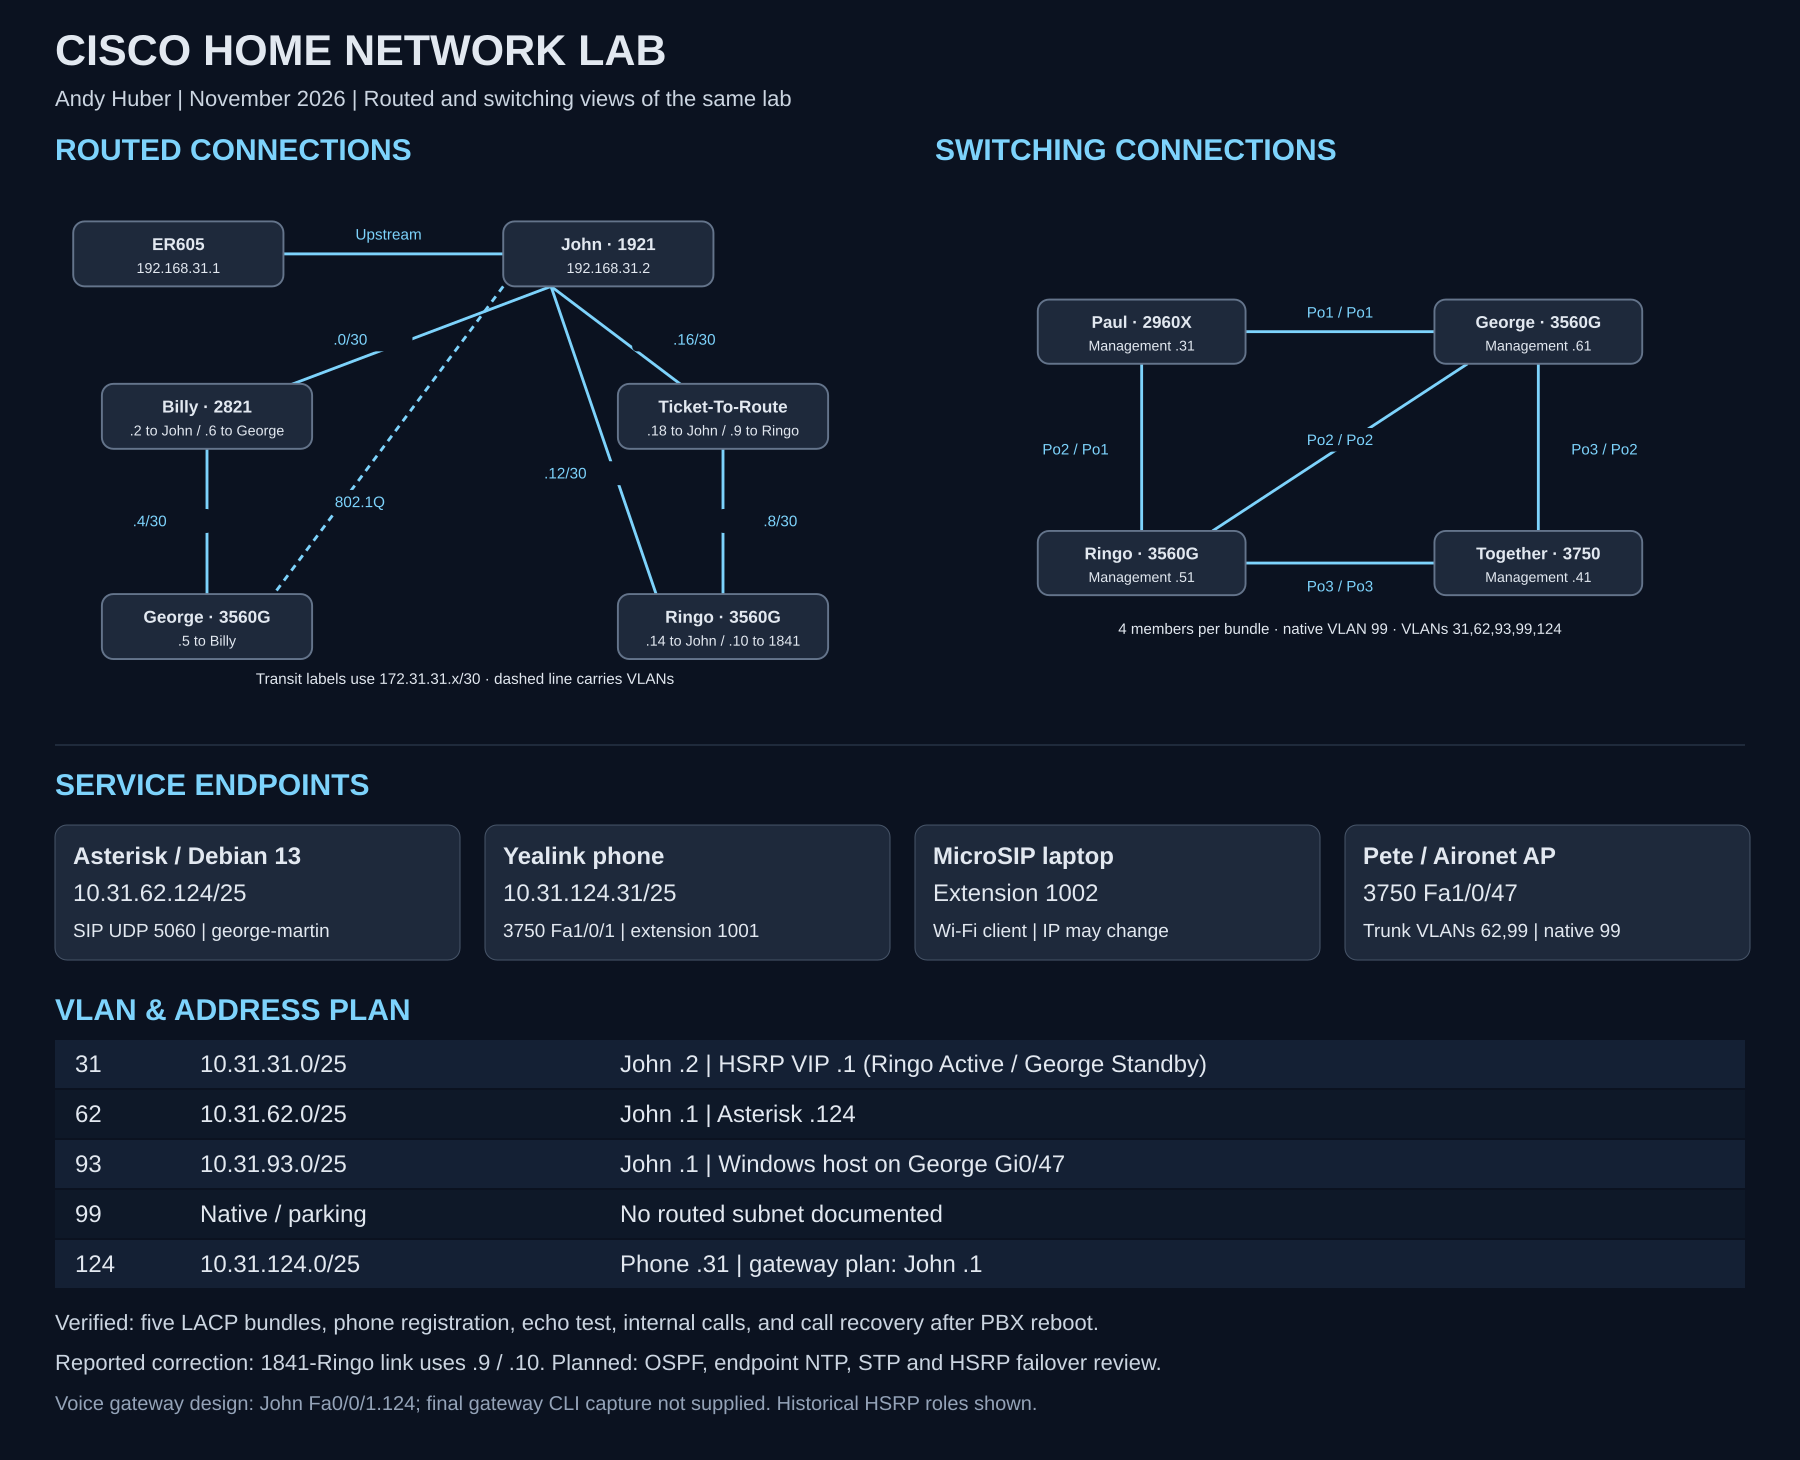
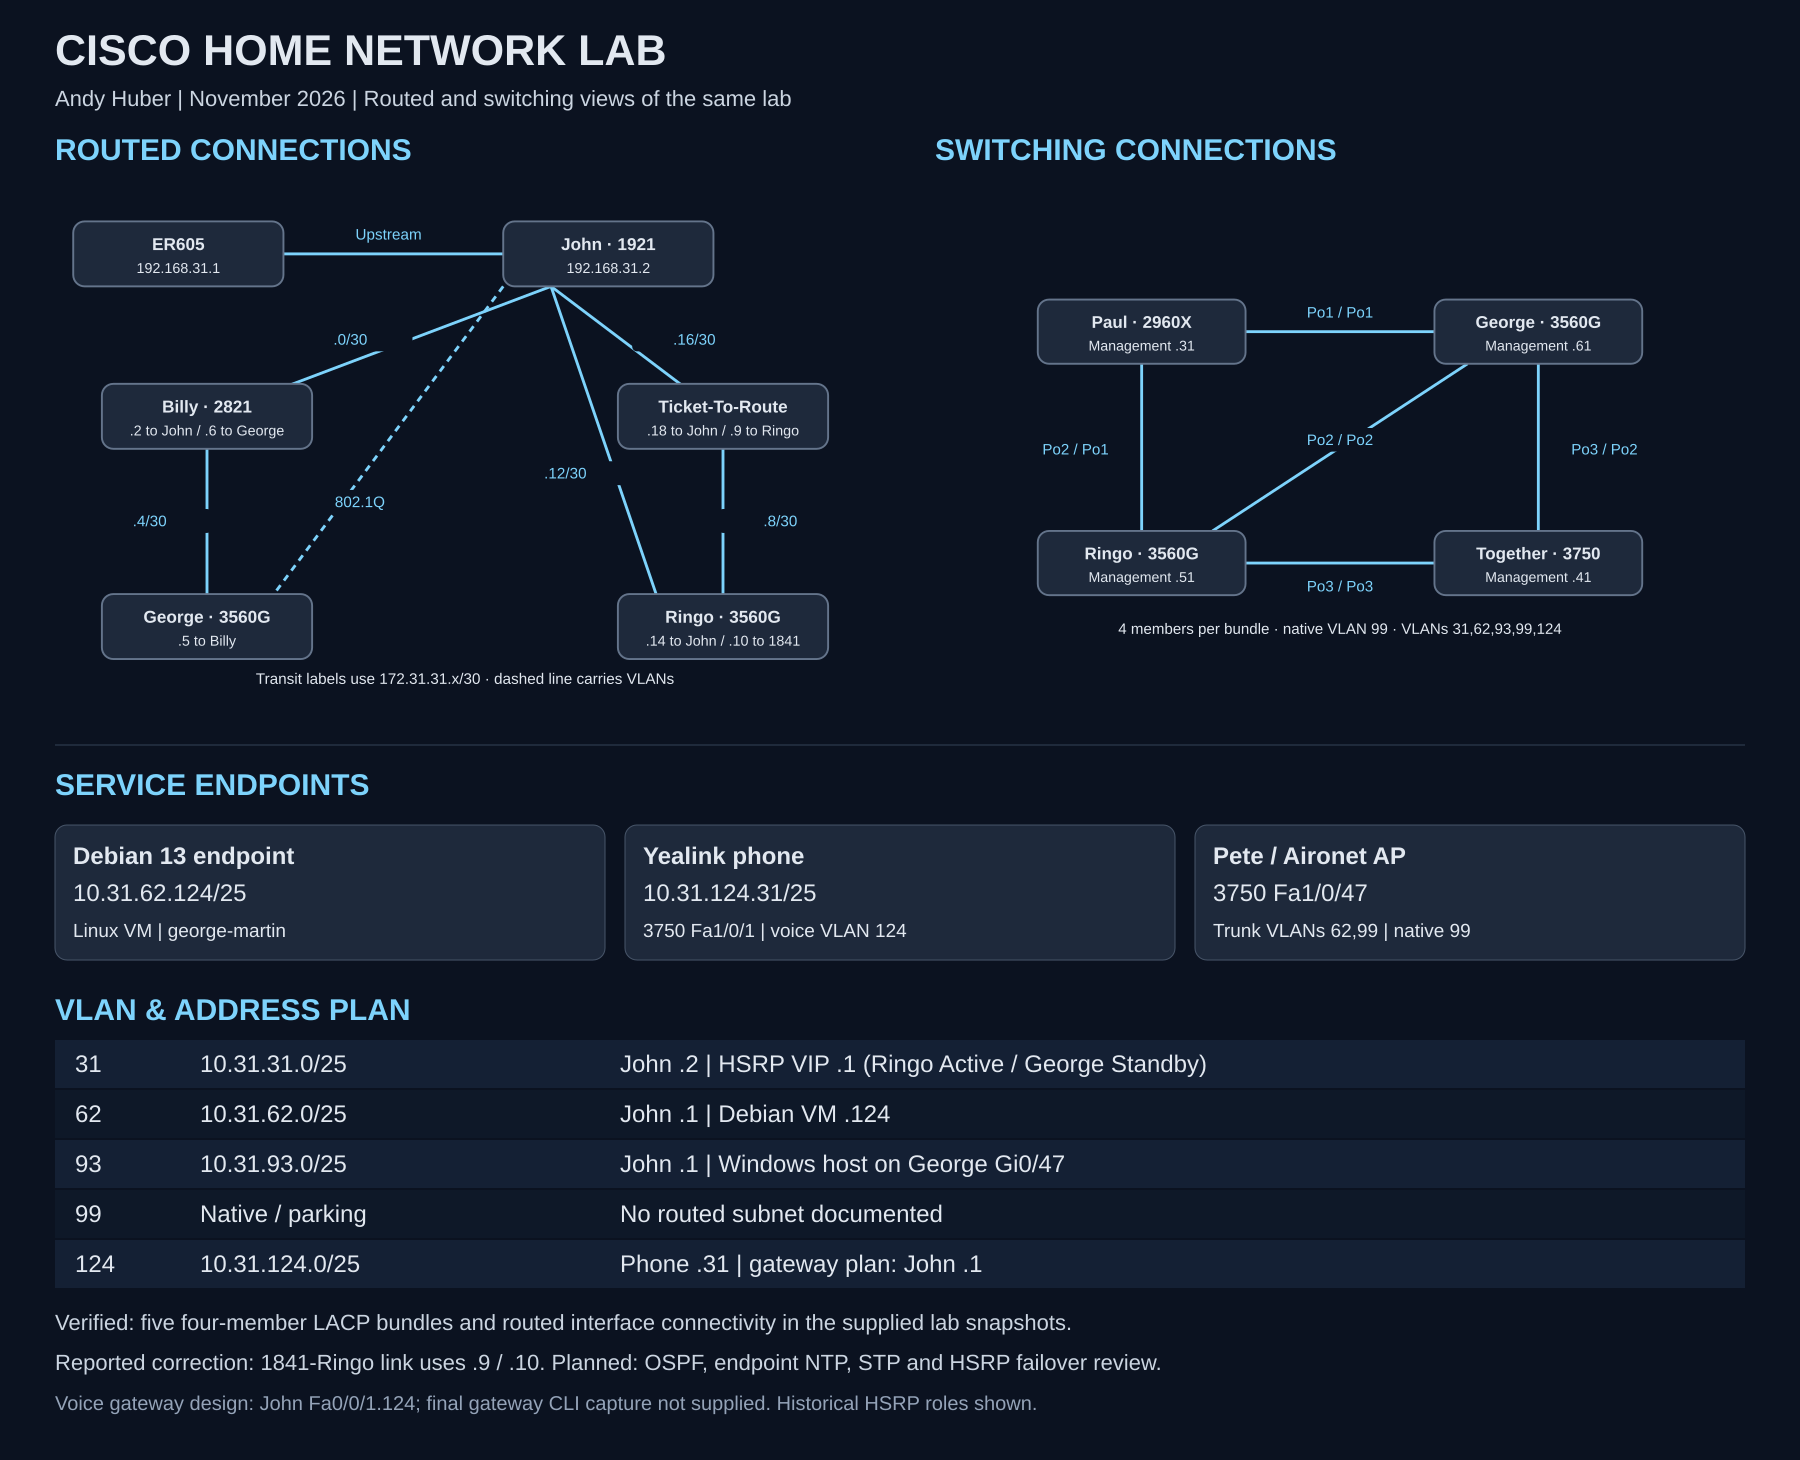
Add files via upload

diff --git a/home-lab.html b/home-lab.html
@@ -7,10 +7,10 @@
     gtag('js', new Date());
     gtag('config', 'G-H0VT97FYN4');
   </script></head>
-<body><a class="skip-link" href="#main">Skip to content</a><div class="page"><header><p class="location">ANDY HUBER · CCNA · HOME LAB</p><h1>My Cisco home lab</h1><p class="subtitle">Hands-on work, troubleshooting, and verified results.</p><nav aria-label="Main navigation"><a href="index.html#about">About me</a><a href="index.html#resume">Résumé</a><a href="index.html#projects">Projects</a><a href="home-lab.html">Home Lab</a><a href="asterisk-lab.html">Voice Lab</a><a href="lab-journal.html">Lab Journal</a><a href="index.html#contact">Contact</a></nav></header><main id="main"><section><h2>A larger routing and switching lab</h2><p>I expanded the lab to three routers and four switches, added an IP phone, and used a Debian VM as a working network service endpoint. The hardware gives me several paths to compare and enough room to break down problems by layer.</p><p class="note">Snapshot: November 16, 2026, with later corrections reported during the session. Interface states and forwarding choices can change as I work through new exercises.</p><div class="table-wrap" role="region" aria-label="Device table" tabindex="0"><table><thead><tr><th scope="col">Device</th><th scope="col">Platform</th><th scope="col">Current role</th></tr></thead><tbody><tr><td>John</td><td>Cisco 1921</td><td>Upstream router and VLAN routing</td></tr><tr><td>Billy</td><td>Cisco 2821</td><td>Routed links to John and George</td></tr><tr><td>Ticket-To-Route</td><td>Cisco 1841</td><td>Routed links to John and Ringo</td></tr><tr><td>Paul</td><td>Cisco 2960X</td><td>Access switch; VLAN 31 STP root</td></tr><tr><td>George and Ringo</td><td>Cisco 3560G switches</td><td>LACP trunks, routed ports, VLAN 31 HSRP</td></tr><tr><td>Switch Together</td><td>Cisco 3750</td><td>Phone and AP access; STP root for 62/93/99/124</td></tr></tbody></table></div></section>
+<body><a class="skip-link" href="#main">Skip to content</a><div class="page"><header><p class="location">ANDY HUBER · CCNA · HOME LAB</p><h1>My Cisco home lab</h1><p class="subtitle">Hands-on work, troubleshooting, and verified results.</p><nav aria-label="Main navigation"><a href="index.html#about">About me</a><a href="index.html#resume">Résumé</a><a href="index.html#projects">Projects</a><a href="home-lab.html">Home Lab</a><a href="lab-journal.html">Lab Journal</a><a href="index.html#contact">Contact</a></nav></header><main id="main"><section><h2>A larger routing and switching lab</h2><p>I expanded the lab to three routers and four switches, added an IP phone, and continued practicing with a Debian VM endpoint. The hardware gives me several paths to compare and enough room to break down problems by layer.</p><p class="note">Snapshot: November 16, 2026, with later corrections reported during the session. Interface states and forwarding choices can change as I work through new exercises.</p><div class="table-wrap" role="region" aria-label="Device table" tabindex="0"><table><thead><tr><th scope="col">Device</th><th scope="col">Platform</th><th scope="col">Current role</th></tr></thead><tbody><tr><td>John</td><td>Cisco 1921</td><td>Upstream router and VLAN routing</td></tr><tr><td>Billy</td><td>Cisco 2821</td><td>Routed links to John and George</td></tr><tr><td>Ticket-To-Route</td><td>Cisco 1841</td><td>Routed links to John and Ringo</td></tr><tr><td>Paul</td><td>Cisco 2960X</td><td>Access switch; VLAN 31 STP root</td></tr><tr><td>George and Ringo</td><td>Cisco 3560G switches</td><td>LACP trunks, routed ports, VLAN 31 HSRP</td></tr><tr><td>Switch Together</td><td>Cisco 3750</td><td>Phone and AP access; STP root for 62/93/99/124</td></tr></tbody></table></div></section>
 <section><h2>Switching connections</h2><a class="diagram-link" href="switching-topology.svg" target="_blank" rel="noopener"><img class="topology" src="switching-topology.svg" alt="Four-switch topology: Paul connects to George and Ringo; George and Ringo connect to each other and the 3750. Each connection is a four-member LACP bundle." width="900" height="450"></a><div class="table-wrap" role="region" aria-label="Link table" tabindex="0"><table><thead><tr><th scope="col">Link</th><th scope="col">Port channels</th><th scope="col">Physical members</th></tr></thead><tbody><tr><td>Paul ↔ George</td><td>Paul Po1 ↔ George Po1</td><td>Gi1/0/13–16 ↔ Gi0/13–16</td></tr><tr><td>Paul ↔ Ringo</td><td>Paul Po2 ↔ Ringo Po1</td><td>Gi1/0/17–20 ↔ Gi0/17–20</td></tr><tr><td>George ↔ Ringo</td><td>Po2 on each switch</td><td>Gi0/25–28 on each end</td></tr><tr><td>George ↔ 3750</td><td>George Po3 ↔ 3750 Po2</td><td>Gi0/33–36 ↔ Fa1/0/33–36</td></tr><tr><td>Ringo ↔ 3750</td><td>Po3 on each switch</td><td>Gi0/37–40 ↔ Fa1/0/37–40</td></tr></tbody></table></div><p>All five bundles showed <code>SU</code> with four <code>P</code> members. They carry VLANs 31, 62, 93, 99, and 124 with native VLAN 99. A healthy bundle can still be blocked by STP for particular VLANs.</p></section>
 <section><h2>Routed connections</h2><a class="diagram-link" href="routed-topology.svg" target="_blank" rel="noopener"><img class="topology" src="routed-topology.svg" alt="John connects upstream to ER605 and by routed links to Billy, Ringo, and the 1841. Billy connects to George, and the 1841 connects to Ringo. John also trunks VLANs to George." width="900" height="530"></a><div class="table-wrap" role="region" aria-label="Network table" tabindex="0"><table><thead><tr><th scope="col">Network</th><th scope="col">Endpoint A</th><th scope="col">Endpoint B</th></tr></thead><tbody><tr><td>172.31.31.0/30</td><td>John Gi0/0: .1</td><td>Billy Gi0/1: .2</td></tr><tr><td>172.31.31.4/30</td><td>George Gi0/2: .5</td><td>Billy Gi0/0: .6</td></tr><tr><td>172.31.31.8/30</td><td>1841 Fa0/1: .9</td><td>Ringo Gi0/2: .10</td></tr><tr><td>172.31.31.12/30</td><td>John Fa0/0/0: .13</td><td>Ringo Gi0/1: .14</td></tr><tr><td>172.31.31.16/30</td><td>John Gi0/1: .17</td><td>1841 Fa0/0: .18</td></tr></tbody></table></div><p class="note">Addresses in the last two columns share the 172.31.31 prefix. The 1841’s change to .9 was reported after identifying the subnet mismatch; a post-change ping was not captured.</p><p>John’s upstream interface is <code>192.168.31.2/25</code>, with a default route through the ER605 at <code>192.168.31.1</code>. John’s Fa0/0/1 trunks to George Gi0/1. OSPF on the routed links is a planned exercise.</p></section>
-<section><h2>VLANs and endpoints</h2><div class="table-wrap" role="region" aria-label="VLAN table" tabindex="0"><table><thead><tr><th scope="col">VLAN</th><th scope="col">Subnet</th><th scope="col">Gateway / endpoints</th></tr></thead><tbody><tr><td>31 · Management</td><td>10.31.31.0/25</td><td>John .2; HSRP VIP .1; Paul .31, 3750 .41, Ringo .51, George .61</td></tr><tr><td>62 · Linux</td><td>10.31.62.0/25</td><td>Gateway: John .1; Debian/Asterisk: .124</td></tr><tr><td>93 · Windows</td><td>10.31.93.0/25</td><td>Gateway: John .1; Windows host port: George Gi0/47</td></tr><tr><td>99 · Native / parking</td><td>No routed subnet documented</td><td>Native on switch bundles; untagged data VLAN on phone port</td></tr><tr><td>124 · Voice</td><td>10.31.124.0/25</td><td>Phone .31; gateway plan: John .1</td></tr></tbody></table></div><p>Ringo was verified Active and George Standby for the VLAN 31 HSRP virtual gateway. The voice gateway was designed as John’s Fa0/0/1.124 subinterface; subsequent phone registration and audio tests confirmed connectivity to the PBX, but a final gateway configuration capture was not supplied.</p></section>
+<section><h2>VLANs and endpoints</h2><div class="table-wrap" role="region" aria-label="VLAN table" tabindex="0"><table><thead><tr><th scope="col">VLAN</th><th scope="col">Subnet</th><th scope="col">Gateway / endpoints</th></tr></thead><tbody><tr><td>31 · Management</td><td>10.31.31.0/25</td><td>John .2; HSRP VIP .1; Paul .31, 3750 .41, Ringo .51, George .61</td></tr><tr><td>62 · Linux</td><td>10.31.62.0/25</td><td>Gateway: John .1; Debian VM: .124</td></tr><tr><td>93 · Windows</td><td>10.31.93.0/25</td><td>Gateway: John .1; Windows host port: George Gi0/47</td></tr><tr><td>99 · Native / parking</td><td>No routed subnet documented</td><td>Native on switch bundles; untagged data VLAN on phone port</td></tr><tr><td>124 · Voice</td><td>10.31.124.0/25</td><td>Phone .31; gateway plan: John .1</td></tr></tbody></table></div><p>Ringo was verified Active and George Standby for the VLAN 31 HSRP virtual gateway. The planned voice gateway is John’s Fa0/0/1.124 subinterface; a final gateway configuration capture was not supplied.</p></section>
 <section><h2>What I fixed</h2><ul class="next-list"><li>Separated Paul’s links to George and Ringo into the correct bundles and enabled matching LACP configuration on Ringo.</li><li>Changed the 1841’s configuration register from 0x2142 to 0x2102 and verified it after a reload.</li><li>Enabled routing on George and verified default routes from George and Ringo to John through VLAN 31.</li><li>Brought the router transit connections online, identified the Ringo–1841 subnet mismatch, and corrected the 1841 address.</li><li>Identified an ER605 rule blocking remote access and removed a stale default route from Billy.</li></ul></section>
 <section><span class="badge planned">Next exercises</span><h2>Still to work through</h2><ul class="next-list"><li>Configure OSPF and verify routes to the remote transit subnets.</li><li>Set up NTP on an endpoint and verify synchronization on the Cisco devices.</li><li>Review PVST/Rapid PVST, primary and secondary roots, and per-VLAN forwarding.</li><li>Test HSRP forwarding failover and decide how to track upstream reachability.</li><li>Finish management gateway checks, descriptions, and unused-port cleanup.</li></ul></section></main><footer>Andy Huber · Mesa, Arizona · <a href="index.html">Portfolio</a></footer></div>  <!-- Cloudflare Web Analytics -->
   <script type="module" src="https://static.cloudflareinsights.com/beacon.min.js" data-cf-beacon='{"token":"07d99b23a81049009a8aa54aee724ecf"}'></script>

diff --git a/lab-journal.html b/lab-journal.html
@@ -4,7 +4,7 @@
   <meta charset="UTF-8">
   <meta name="viewport" content="width=device-width, initial-scale=1">
   <title>Lab Journal | Andy Huber</title>
-  <meta name="description" content="Notes from Andy Huber’s home lab: Asterisk voice calls, Cisco routing, EtherChannels, spanning tree, remote access, and Linux practice.">
+  <meta name="description" content="Notes from Andy Huber’s home lab: Cisco routing, EtherChannels, spanning tree, remote access, and Linux practice.">
   <!-- Google tag (gtag.js) -->
   <script async src="https://www.googletagmanager.com/gtag/js?id=G-H0VT97FYN4"></script>
   <script>
@@ -217,7 +217,6 @@
         <a href="index.html#resume">Résumé</a>
         <a href="index.html#projects">Projects</a>
         <a href="home-lab.html">Home Lab</a>
-        <a href="asterisk-lab.html">Voice Lab</a>
         <a href="lab-journal.html" aria-current="page">Lab Journal</a>
         <a href="index.html#contact">Contact</a>
       </nav>
@@ -230,7 +229,6 @@
         <p>I earned my CCNA in November 2026. I’m continuing to use my home lab to practice and learn. These are notes from things I’ve tried, along with the commands I used to check them.</p>
         <p>I’m writing this down so I can come back later and remember what I did and why.</p>
         <ul class="project-list">
-          <li><a href="#voice-lab-2026-11-16">November 16: Asterisk, a desk phone, and a laptop softphone</a>.</li>
           <li><a href="#network-refresh-2026-11-16">November 16: Rebuilding uplinks and following the return path</a>.</li>
           <li><a href="#linux-practice-2026-11">November: Linux practice with Bandit</a>.</li>
           <li><a href="#ssh-return-route-2026-10-27">October 27: SSH troubleshooting — check the return route</a>.</li>
@@ -240,7 +238,6 @@
         </ul>
       </section>
 
-<section id="voice-lab-2026-11-16" aria-labelledby="voice-entry-title"><div class="entry-meta"><time datetime="2026-11-16">November 16, 2026</time><span class="badge">SIP and voice VLANs</span></div><h2 id="voice-entry-title">A desk phone, a laptop, and my own PBX</h2><p>I built Asterisk 22.12.0 from source on Debian 13, running at 10.31.62.124. My Yealink phone at 10.31.124.31 registered as 1001, and MicroSIP on my laptop registered as 1002.</p><p>The 600 echo test let me check audio with only one registered phone. I then connected calls in both directions and verified a call after rebooting the PBX VM. That checked more than whether the configuration files looked right: the service had to start, the phones had to register again, and a call had to connect.</p><div class="finding"><strong>Troubleshooting lesson:</strong> Ping to the phone worked while its HTTP page failed. Testing TCP ports 80 and 443 showed HTTPS was reachable. Opening the HTTPS URL got me into the phone settings.</div><p>The first laptop-to-phone attempt did not work. A retry while watching the Asterisk console succeeded; I have not identified the first attempt’s cause.</p><p><a href="asterisk-lab.html">Full project: configuration, verification commands, and call evidence</a></p></section>
 <section id="network-refresh-2026-11-16" aria-labelledby="network-entry-title"><div class="entry-meta"><time datetime="2026-11-16">November 16, 2026</time><span class="badge">Routing and LACP</span></div><h2 id="network-entry-title">Rebuilding uplinks and following the return path</h2><p>My expanded lab has three routers and four switches. I compared CDP neighbors with the configured channel groups and found links to different switches mixed into one bundle on Paul. Some other ports were standalone or suspended because the remote switch had no matching LACP configuration.</p><p>After separating the neighbors into their own bundles and configuring Ringo’s member ports, all five switch-to-switch EtherChannels showed four bundled members. Port-channel numbers are local: Paul’s Po2 connects successfully to Ringo’s Po1.</p><details class="evidence"><summary>Excerpt: Paul’s verified EtherChannels</summary><pre tabindex="0">1  Po1(SU)  LACP  Gi1/0/13(P) Gi1/0/14(P) Gi1/0/15(P) Gi1/0/16(P)
 2  Po2(SU)  LACP  Gi1/0/17(P) Gi1/0/18(P) Gi1/0/19(P) Gi1/0/20(P)</pre></details><h3 style="margin-top:24px">Other fixes</h3><ul class="project-list"><li>Changed the 1841 configuration register to 0x2102 and verified the change after reload.</li><li>Enabled routing on George and verified George and Ringo could reach John using their VLAN 31 source addresses.</li><li>Configured Billy’s default toward John, then found an ER605 rule preventing remote access from my laptop.</li><li>Corrected the 1841’s Ringo-facing address to 172.31.31.9/30 so it matches Ringo’s 172.31.31.10/30 subnet. This correction was reported; a post-change ping is still worth recording.</li><li>Used host-specific SSH client exceptions to reach the older 1841’s SSH implementation.</li></ul><p><strong>Still planned:</strong> OSPF, endpoint NTP, STP root/backup choices, and HSRP forwarding failover tests.</p><p><a href="home-lab.html">Current topology and addressing tables</a></p></section>
 <section id="linux-practice-2026-11" aria-labelledby="linux-entry-title"><div class="entry-meta"><span>November 2026</span><span class="badge">Ongoing practice</span></div><h2 id="linux-entry-title">Small command-line lessons from Bandit</h2><p>I’m using OverTheWire Bandit to get more comfortable inspecting files and combining commands. I’m documenting concepts rather than passwords or challenge solutions.</p><ul class="project-list"><li><code>./-</code> names a file called <code>-</code> in the current directory, avoiding its interpretation as standard input by tools such as <code>cat</code>.</li><li>Quote or escape spaces in filenames, for example <code>cat "file with spaces"</code>.</li><li>A pipe sends one command’s standard output to the next command’s standard input.</li><li>Use <code>find</code>, <code>grep</code>, <code>file</code>, and manual pages to identify what a file contains before choosing how to read it.</li><li>Repeatedly compressed data takes a sequence of format checks and extraction steps.</li></ul></section>

diff --git a/index.html b/index.html
@@ -29,7 +29,6 @@
         <a href="#resume">Résumé</a>
         <a href="#projects">Projects</a>
         <a href="home-lab.html">Home Lab</a>
-        <a href="asterisk-lab.html">Voice Lab</a>
         <a href="lab-journal.html">Lab Journal</a>
         <a href="#contact">Contact</a>
       </nav>
@@ -54,15 +53,8 @@
 
       <section id="projects" aria-labelledby="projects-heading">
         <h2 id="projects-heading">Projects</h2>
-        <p>I use my lab to work through real configuration problems and check the results. Recent work includes rebuilding switch uplinks, expanding routed connections, and getting a desk phone and laptop calling through my own Asterisk server.</p>
+        <p>I use guided exercises and troubleshooting practice to develop my networking skills and check the results in my lab. Recent work includes rebuilding switch uplinks, expanding routed connections, and checking configurations against command output.</p>
         <div class="project-grid">
-          <article class="project-card">
-            <span class="badge">Calls verified after reboot</span>
-            <h3>Asterisk voice lab</h3>
-            <p>Built Asterisk 22.12.0 from source on Debian 13, registered a Yealink desk phone and MicroSIP softphone, and tested calls across separate networks.</p>
-            <ul class="tags"><li>SIP / PJSIP</li><li>Voice VLAN</li><li>Linux services</li></ul>
-            <a class="button primary" href="asterisk-lab.html">Read the voice project</a>
-          </article>
           <article class="project-card">
             <span class="badge">Five LACP bundles verified</span>
             <h3>Expanded Cisco home lab</h3>
